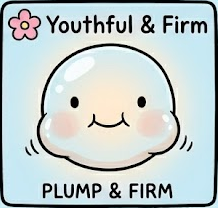
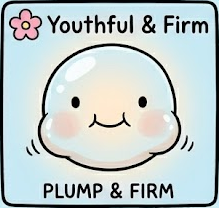
fix: refine cropping bounds individually to remove side bleeds

diff --git a/refine_crop.py b/refine_crop.py
@@ -1,0 +1,42 @@
+from PIL import Image
+
+img = Image.open('/Users/jmoncayopursuit.org/.gemini/antigravity/brain/42d94f3e-aff2-4ef1-9da0-bd7a2fa82c70/media__1778099338686.png').convert('RGB')
+pixels = img.load()
+width, height = img.size
+
+boxes = [
+    ('radiant_cartoon.png', (54, 81, 272, 289)),
+    ('clear_cartoon.png', (290, 81, 508, 289)),
+    ('youthful_cartoon.png', (526, 81, 744, 289)),
+    ('skip1', (761, 81, 979, 289)),
+    ('bright_eyes_cartoon.png', (54, 300, 272, 507)),
+    ('calm_cartoon.png', (290, 300, 508, 507)),
+    ('skip2', (526, 300, 744, 507)),
+    ('spotfree_cartoon.png', (761, 300, 979, 507)),
+]
+
+for name, (x0, y0, x1, y1) in boxes:
+    if 'skip' in name: continue
+    
+    # We know the approximate region. Let's find the exact min/max X and Y of black pixels in a slightly padded region
+    pad = 10
+    min_x, min_y = width, height
+    max_x, max_y = 0, 0
+    
+    for y in range(max(0, y0-pad), min(height, y1+pad)):
+        for x in range(max(0, x0-pad), min(width, x1+pad)):
+            r, g, b = pixels[x, y]
+            if r < 40 and g < 40 and b < 40:
+                min_x = min(min_x, x)
+                max_x = max(max_x, x)
+                min_y = min(min_y, y)
+                max_y = max(max_y, y)
+                
+    # Max x and y should be exclusive in PIL crop
+    max_x += 1
+    max_y += 1
+    
+    print(f"'{name}': ({min_x}, {min_y}, {max_x}, {max_y}),")
+    
+    crop = img.crop((min_x, min_y, max_x, max_y))
+    crop.save(f'public/glow-ups/{name}')
